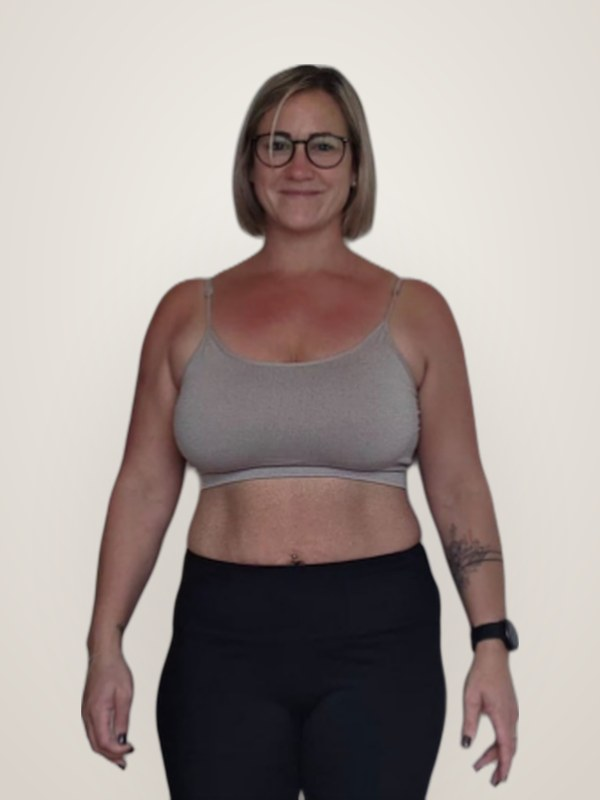
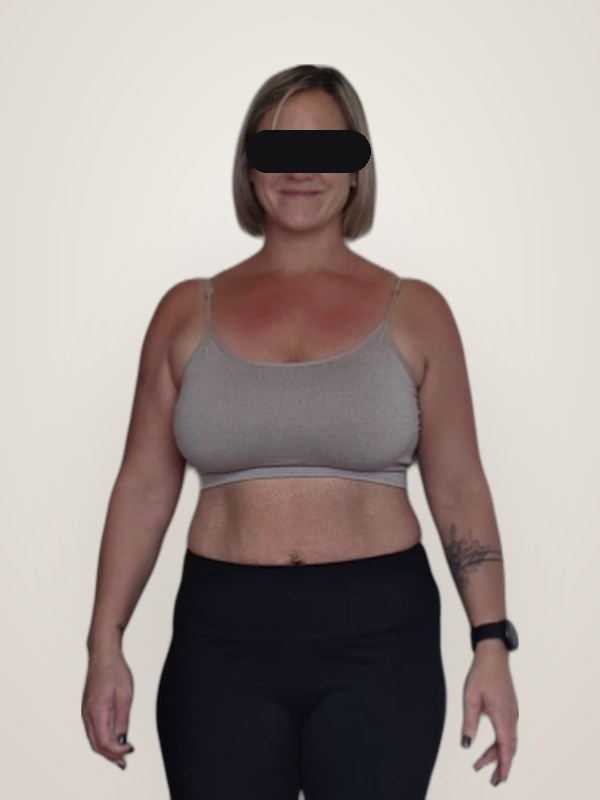
Alexis refait, yeux masqués (Séverine, Stéphane, Sophie), section The Swiss 1% Protocol

Changed region(s): [[0.42, 0.1562, 0.63, 0.2188]]

diff --git a/index.html b/index.html
@@ -130,6 +130,37 @@ section{padding:72px 0}
 .rv-in.on{opacity:1;transform:none}
 @media(max-width:780px){.fb1{left:-6px;top:12%}.fb2{right:-6px}.fb3{display:none}.fb{padding:8px 11px}.fb b{font-size:18px}.pair .bdg{font-size:24px}.trio figure:nth-child(-n+2)::after{display:none}}
 @media(prefers-reduced-motion:reduce){.fb{animation:none}.rv-in{opacity:1;transform:none;transition:none}}
+/* swiss 1% protocol */
+.proto{position:relative;overflow:hidden;background:radial-gradient(1200px 600px at 75% 30%,#13284a 0%,#0E1726 55%,#0a101c 100%);color:#fff;padding:96px 0}
+.p1{position:absolute;right:-3vw;top:40px;font-weight:900;font-size:clamp(260px,42vw,620px);line-height:.8;letter-spacing:-.06em;color:transparent;-webkit-text-stroke:2px rgba(77,163,255,.18);pointer-events:none;user-select:none}
+.proto .wrap{position:relative}
+.ptop{max-width:760px}
+.pchip{display:inline-flex;align-items:center;gap:8px;background:rgba(255,255,255,.08);border:1px solid rgba(255,255,255,.16);border-radius:980px;padding:8px 16px;font-size:13px;font-weight:700;letter-spacing:1.5px;text-transform:uppercase;margin-bottom:22px}
+.proto h2{font-size:clamp(38px,5.6vw,66px);line-height:1.04;letter-spacing:-2px}
+.strike{position:relative;color:#8a94a8;white-space:nowrap;display:inline-block}
+.strike::after{content:"";position:absolute;left:-2%;right:-2%;top:54%;height:6px;background:#ff3b30;border-radius:4px;transform:rotate(-3deg)}
+.glow{color:#4da3ff;text-shadow:0 0 40px rgba(0,122,255,.55)}
+.psub{color:#c3cad8;font-size:19px;line-height:1.6;margin:22px 0 0;max-width:620px}
+.pgrid{display:grid;grid-template-columns:minmax(0,.9fr) auto minmax(0,1.1fr);gap:22px;align-items:center;margin-top:56px}
+.p99,.p1c{border-radius:24px;padding:30px}
+.p99{background:rgba(255,255,255,.04);border:1px solid rgba(255,255,255,.08)}
+.p1c{background:linear-gradient(160deg,#0b5fd6,#0a3f99);box-shadow:0 30px 80px -20px rgba(0,122,255,.6),inset 0 1px 0 rgba(255,255,255,.25);transform:scale(1.03)}
+.ph b{display:block;font-size:30px;letter-spacing:-1px}
+.ph span{font-size:13px;font-weight:700;letter-spacing:1.5px;text-transform:uppercase;opacity:.7}
+.p99 ul{list-style:none;padding:0;margin:22px 0 0;display:grid;gap:14px}
+.p99 li{display:flex;gap:12px;align-items:flex-start;color:#8a94a8;font-size:17px;text-decoration:line-through;text-decoration-color:rgba(255,59,48,.7);text-decoration-thickness:2px}
+.p99 li::before{content:"✕";flex:none;width:24px;height:24px;border-radius:50%;background:rgba(255,59,48,.15);color:#ff6b61;display:grid;place-items:center;font-size:12px;font-weight:800;text-decoration:none}
+.pvs{width:56px;height:56px;border-radius:50%;background:#fff;color:#0E1726;display:grid;place-items:center;font-weight:900;font-size:16px;box-shadow:0 0 0 8px rgba(255,255,255,.08)}
+.p1c ol{list-style:none;padding:0;margin:22px 0 0;display:grid;gap:16px}
+.p1c li{display:flex;gap:14px;align-items:flex-start}
+.p1c li i{flex:none;font-style:normal;font-weight:900;font-size:15px;width:38px;height:38px;border-radius:12px;background:rgba(255,255,255,.16);display:grid;place-items:center}
+.p1c li b{display:block;font-size:18px}
+.p1c li span{font-size:15px;color:rgba(255,255,255,.82);line-height:1.5}
+.pcta{display:flex;flex-direction:column;align-items:center;gap:12px;margin-top:52px;text-align:center}
+.pcta .btn{background:#fff;color:#0E1726;box-shadow:0 0 0 6px rgba(255,255,255,.08),0 20px 40px -10px rgba(0,122,255,.6)}
+.pcta .btn:hover{background:#e9f2ff}
+.pcta span{color:#8a94a8;font-size:14px}
+@media(max-width:860px){.pgrid{grid-template-columns:minmax(0,1fr)}.pvs{margin:-6px auto}.p1c{transform:none}.proto{padding:72px 0}.p1{top:12%;transform:none;right:-12vw}}
 /* trustpilot pill */
 .tppill{display:inline-flex;align-items:center;gap:12px;background:#fff;border-radius:980px;padding:10px 20px;box-shadow:var(--sh-s);text-decoration:none;font-size:15px;font-weight:600;flex-wrap:wrap;justify-content:center}
 .tpl{display:inline-flex;align-items:center;gap:5px;font-weight:700}
@@ -297,14 +328,38 @@ footer p{margin:6px 0}
   <div class="center wrap"><a class="btn" href="#apply">→ Réserver mon appel gratuit</a></div>
 </section>
 
-<!-- 3. DOULEURS -->
-<section class="pain">
-  <div class="wrap narrow center">
-    <h2>Tu te reconnais ?</h2>
-    <p class="sub">Tu fais des efforts, et pourtant le miroir ne te renvoie pas le corps que tu veux.</p>
-    <div class="plist" id="pains" style="text-align:left"></div>
-    <div class="verdict">Ce n'est <em>pas une question de discipline.</em><br>Il te manque simplement le bon système.</div>
-    <a class="btn" href="#apply">→ Réserver mon appel gratuit</a>
+<!-- 3. THE SWISS 1% PROTOCOL -->
+<section class="proto">
+  <div class="p1" aria-hidden="true">1%</div>
+  <div class="wrap">
+    <div class="ptop">
+      <span class="pchip">🇨🇭 The Swiss 1% Protocol</span>
+      <h2>Arrête de faire comme <span class="strike">tout le monde</span>.<br><span class="glow">Rejoins le 1 %.</span></h2>
+      <p class="psub">Tu manges « healthy », tu t'entraînes, tu recommences chaque lundi… et le miroir ne bouge pas. Ce n'est pas toi le problème. C'est la méthode.</p>
+    </div>
+    <div class="pgrid">
+      <div class="p99">
+        <div class="ph"><b>Les 99 %</b><span>ce qui t'a fait échouer</span></div>
+        <ul>
+          <li>Suivre le régime à la mode du moment</li>
+          <li>Compter sur la motivation du lundi</li>
+          <li>S'affamer, puis craquer le week-end</li>
+          <li>Faire du cardio pendant des heures</li>
+          <li>Reprendre tout dès que ça s'arrête</li>
+        </ul>
+      </div>
+      <div class="pvs" aria-hidden="true">VS</div>
+      <div class="p1c">
+        <div class="ph"><b>Le 1 %</b><span>The Swiss 1% Protocol</span></div>
+        <ol>
+          <li><i>01</i><div><b>Précision suisse</b><span>Un plan calculé pour ton corps, ton métabolisme et ton agenda.</span></div></li>
+          <li><i>02</i><div><b>Zéro privation</b><span>Tu manges ce que tu aimes, en mieux. Pas d'aliments interdits.</span></div></li>
+          <li><i>03</i><div><b>Suivi 1:1 au quotidien</b><span>Je corrige le tir avant que tu dérapes. Tu n'es jamais seul.</span></div></li>
+          <li><i>04</i><div><b>Résultat verrouillé</b><span>Des habitudes qui restent, pour ne plus jamais reprendre.</span></div></li>
+        </ol>
+      </div>
+    </div>
+    <div class="pcta"><a class="btn" href="#apply">→ Je veux entrer dans le 1 %</a><span>Places limitées · appel gratuit et sans engagement</span></div>
   </div>
 </section>
 
@@ -461,7 +516,7 @@ const card=t=>`<div class="tcard"><div class="pair"><span class="lb a">AVANT</sp
 const loop=[...T];
 document.getElementById('track').innerHTML=[...loop,...loop].map(card).join('');
 
-document.getElementById('pains').innerHTML=[["🍽","Tu manges sainement, mais tu ne perds pas de poids."],["😕","Tu t'entraînes régulièrement, mais tu ne vois aucun résultat."],["🔄","Tu connais l'effet yo-yo par expérience."],["🥗","Tu as déjà testé plusieurs régimes, mais rien n'a tenu sur la durée."],["📉","Ta motivation s'écroule après 3–4 semaines."]].map(p=>`<div class="pitem"><span>${p[0]}</span>${p[1]}</div>`).join('');
+if(document.getElementById('pains'))document.getElementById('pains').innerHTML=[["🍽","Tu manges sainement, mais tu ne perds pas de poids."],["😕","Tu t'entraînes régulièrement, mais tu ne vois aucun résultat."],["🔄","Tu connais l'effet yo-yo par expérience."],["🥗","Tu as déjà testé plusieurs régimes, mais rien n'a tenu sur la durée."],["📉","Ta motivation s'écroule après 3–4 semaines."]].map(p=>`<div class="pitem"><span>${p[0]}</span>${p[1]}</div>`).join('');
 
 document.getElementById('proc').innerHTML=[["🔍","Analyse et objectifs","On regarde ensemble où tu en es : physiquement, côté emploi du temps et mentalement. Puis on fixe des objectifs clairs et réalistes."],["🍎","Plan nutrition individuel","Un plan qui s'adapte à toi et à ton quotidien, selon tes besoins en calories et en nutriments. Sans faim, sans low carb, sans grosses privations."],["🏋","Plan d'entraînement individuel","Adapté à ton niveau, à tes objectifs et au temps que tu as. Avec les meilleurs exercices pour un résultat optimal."],["🤝","Suivi personnel","Je te motive, je contrôle tes progrès et j'ajuste en continu. On échange chaque jour par chat et on a des appels 1:1 réguliers."]].map(s=>`<div class="pc"><div class="ic">${s[0]}</div><h3>${s[1]}</h3><p>${s[2]}</p></div>`).join('');
 
